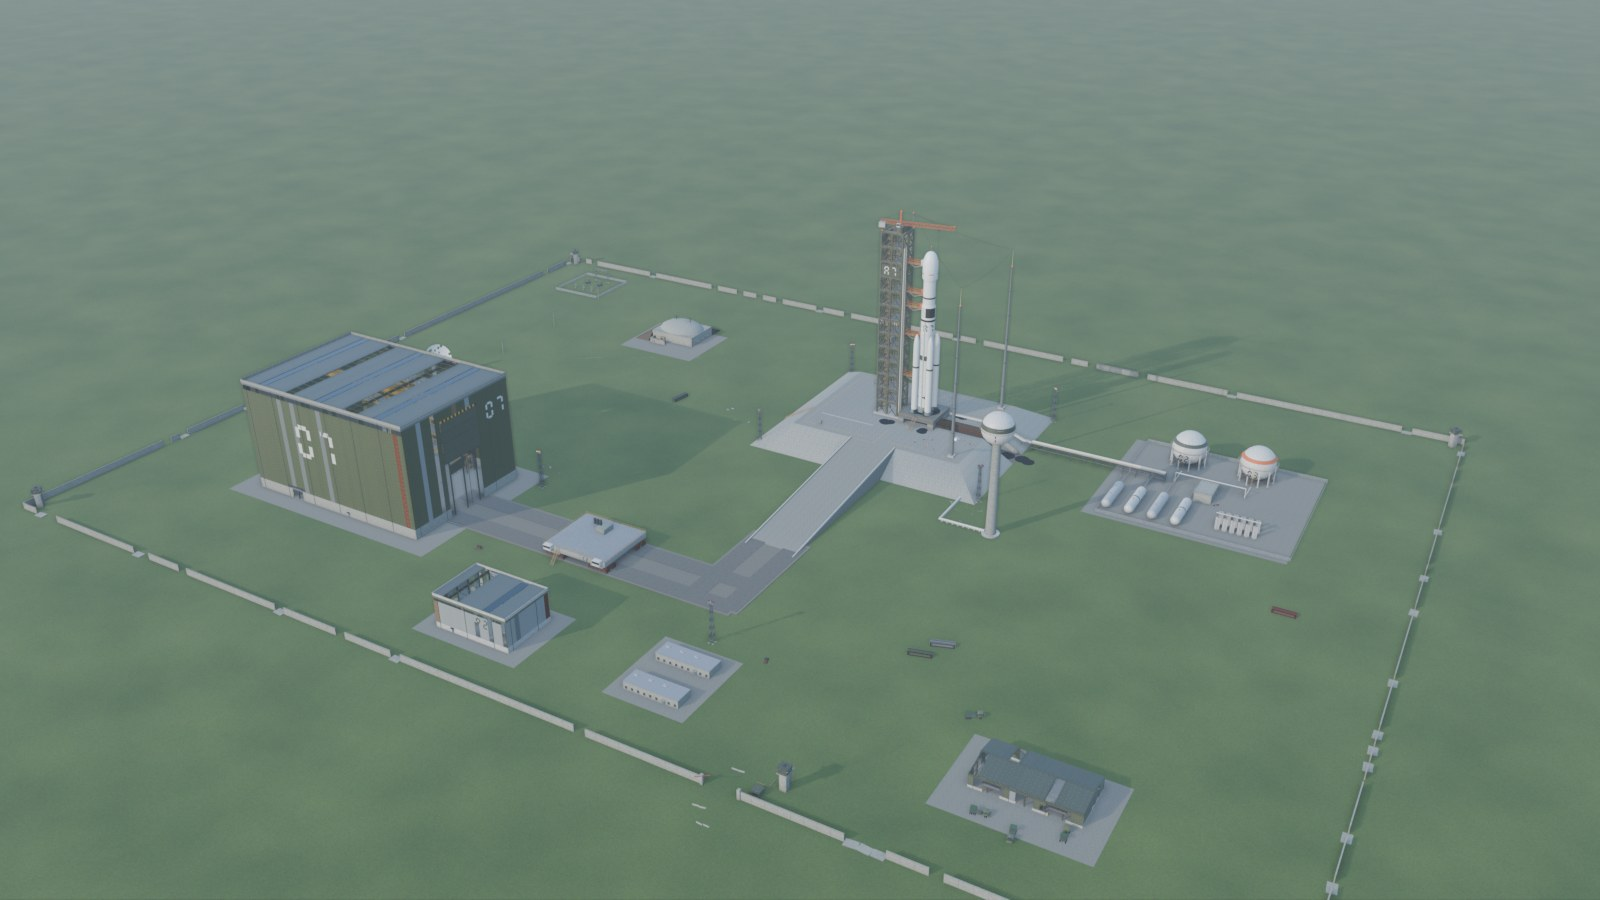
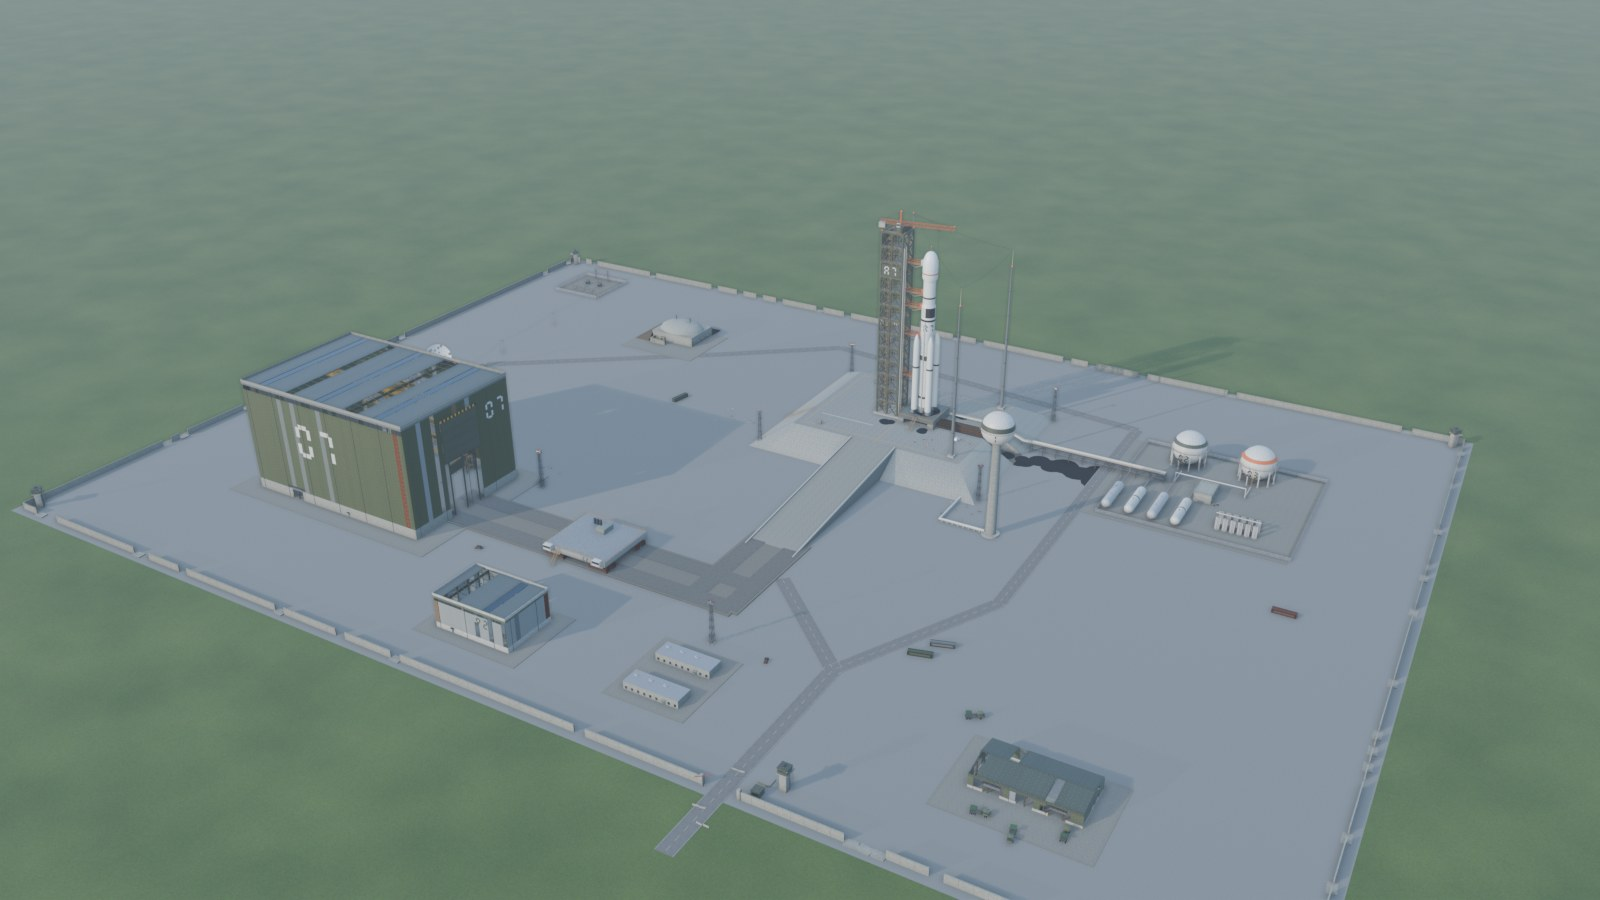
Monuments: preview near clip scales with the camera distance
Shared-module fix (art/monuments/monkit/preview.py, one line): the look-dev camera's near clip was
fixed at 0.1 m, so in far and overview views the terrain pad z-fought with the ground plane (it
vanished, or one of its two triangles showed as a huge translucent sail). The near clip is now
0.5 % of the camera's distance (never under 0.1 m). Launch Complex renders redone with it.

Changed region(s): [[0.0, 0.28, 0.9375, 1.0]]

diff --git a/art/monuments/monkit/preview.py b/art/monuments/monkit/preview.py
@@ -397,7 +397,8 @@ def camera(target, distance, yaw, pitch, lens=35.0, name="cam"):
         sc.collection.objects.link(cam)
         sc.camera = cam
     cam.data.lens = lens
-    cam.data.clip_start = 0.1
+    # Near clip with the distance: a fixed 0.1 m makes the pad z-fight with the ground in far views.
+    cam.data.clip_start = max(0.1, distance * 0.005)
     cam.data.clip_end = 60000
     y, p = math.radians(yaw), math.radians(pitch)
     t = Vector(target)
